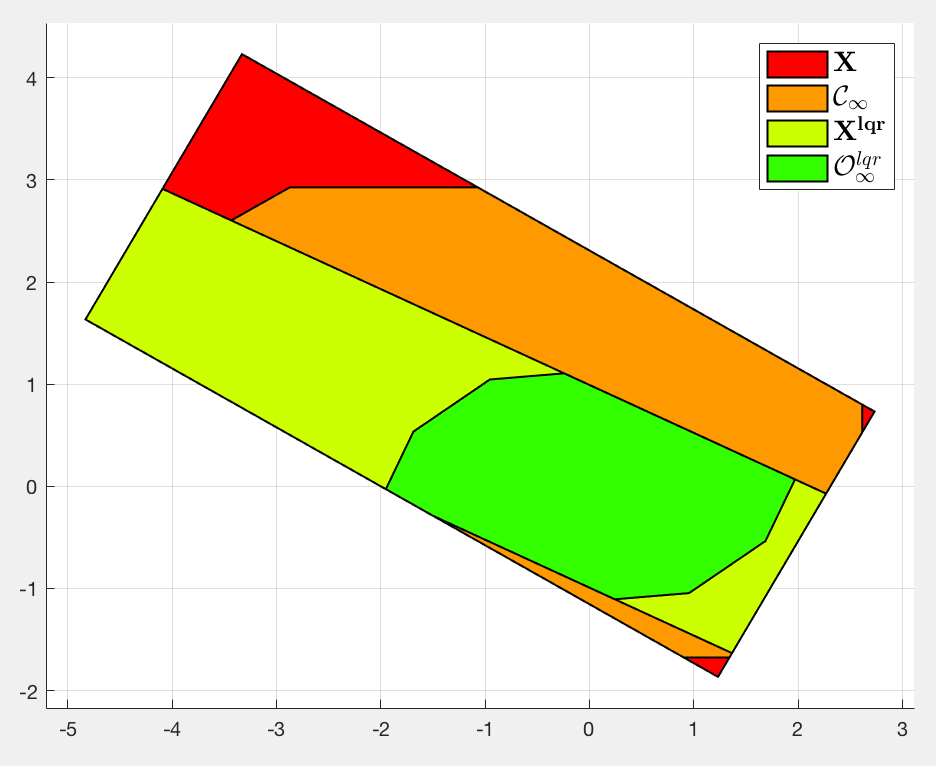
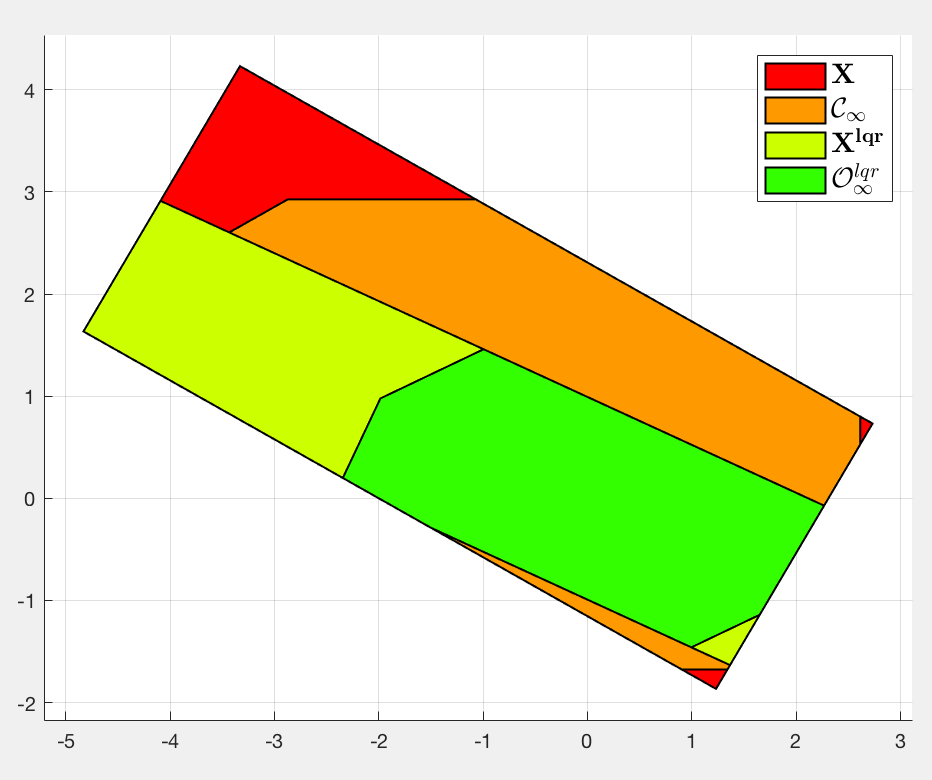
Modifies E3 and adds E4

diff --git a/E4/exo1_script.m b/E4/exo1_script.m
@@ -1,0 +1,102 @@
+%% MPC class
+%% E4 script for exercice 1 
+
+clear all;
+clc;
+close all; 
+
+% defs 
+A = [0.9752 1.4544; -0.0327 0.9315];
+B = [0.0248; 0.0327]; 
+Hx = [1 0; -1 0; 0 1; 0 -1];
+hx = [5; 5; 0.2; 0.2];
+Hu = [1;-1] ; 
+hu = 1.75*[1;1];
+Q = 10*eye(2);
+R = 1;
+N = 10;
+X = Polyhedron(Hx,hx);
+
+%% Algo - question 1
+% LQR feedback law
+[Klqr,P,~] = dlqr(A,B,Q,R); % [optimal LQR gain, DARE solution]
+Vf = @(x) x'*P*x;           % terminal cost 
+
+ % Defines new constraint set 
+ convergence = false;                       % convergence flag
+ O_lqr = Polyhedron([Hx;-Hu*Klqr],[hx;hu]); % current estimate for O_infinity
+
+ %! ------------------------------------------------------ !%
+ %      computing largest invariant set for lqr             %
+ %! ------------------------------------------------------ !%
+ while (~convergence)
+     Op = Polyhedron(O_lqr.A*(A-B*Klqr),O_lqr.b);           % current Omega pre-set
+     On = Polyhedron( [Op.A;O_lqr.A] , [Op.b;O_lqr.b] );    % update rule
+     convergence = (O_lqr == On);                           % convergence check
+     O_lqr = On;                                            % update 
+ end
+  %! ------------------------------------------------------ !%
+  
+%  % Results 
+%  algo_res.weight = P;
+%  algo_res.set = O_lqr;
+%  algo_res.controller = -Klqr;
+%  
+%  % Verifies result with MPT3
+%  sys = LTISystem('A',A,'B',B);
+%  sys.x.max = [5; 0.2]; sys.x.min = [-5; -0.2];
+%  sys.u.max = 1.75; sys.u.min = -1.75;
+%  sys.x.penalty = QuadFunction(Q);
+%  sys.u.penalty = QuadFunction(R);
+%  mpt_res.weight = sys.LQRPenalty.weight;
+%  mpt_res.set = sys.LQRSet;
+%  mpt_res.controller = sys.LQRGain;
+%  
+%  % display 
+%  disp('Boolean value for equality between sets :')
+%  disp(mpt_res.set==algo_res.set);
+%  disp('MPT terminal state :');
+%  disp(mpt_res.weight); 
+%  disp('Our terminal state :');
+%  disp(algo_res.weight);
+%  disp('MPT terminal gain :');
+%  disp(mpt_res.controller); 
+%  disp('Our terminal gain :');
+%  disp(algo_res.controller);
+     
+ 
+ %% Question 2
+ % cost function = 0.5*z'Hz + hz with z = (x11,x12, .., x1N, x2N, u0, .., u_(N_1)
+ % with constraint (Tz=t) and (Gz<=g)
+ x = [3;0];
+ max_iter = 30;
+ traj = zeros(max_iter,2);
+ control = zeros(max_iter,1);
+ for i=1:20
+     traj(i,:) = x;
+    [H,h,G,g,T,t] = mpc_precompute(N,A,B,Q,P,R,x,Hx,hx,Hu,hu,O_lqr);      % precomputes matrix for quadprog minimization
+    [zopt, fval, flag] = quadprog(2*H, h, G, g, T, t);                     % 2*H to comply with model : 0.5*z'Hz + ..
+    if (flag==0)
+        error('Unfeasible program');
+    end
+    x = A*x+B*zopt(2*N+1,1);
+    control(i) = zopt(2*N+1,1);
+ end
+ 
+ % plots
+ plot([X,O_lqr]);hold on;
+ plot(traj(:,1),traj(:,2),'-sk','LineWidth',2,'MarkerSize',6,'MarkerFaceColor',[0.2,0.5,1]);
+ l = legend('Feasible set','Terminal feasible set','Trajectory','Location','southwest');
+ set(l,'FontSize',12);
+ xlabel('$x_1$','interpreter','latex');
+ ylabel('$x_2$','interpreter','latex');
+ 
+ figure;
+ stairs(control,'LineWidth',2,'Color',[0.9,0.2,0.3]);
+ xlabel('Iteration');
+ ylabel('Control');
+ grid minor;
+ legend('MPC Control law');
+ 
+  
+    

diff --git a/E4/mpc_precompute.m b/E4/mpc_precompute.m
@@ -1,0 +1,29 @@
+function [H,h,G,g,T,t] = mpc_precompute(N,A,B,Q,P,R,x0,Hx,hx,Hu,hu,Xf)
+%! computes the different matrix needed for solving the MPC quadratic program !%
+
+% global cost matrix H
+ H = zeros(3*N,3*N);
+ h = zeros(3*N,1);
+ H(1:2*(N-1),1:2*(N-1)) = kron(eye(N-1),Q);
+ H(2*N-1:2*N,2*N-1:2*N) = P;
+ H(2*N+1:3*N,2*N+1:3*N) = kron(eye(N),R);
+ 
+ % global dynamic matrix
+ t = zeros(2*N,1);
+ t(1:2,1) = -A*x0;
+ T = zeros(2*N,3*N);
+ T(1:2*N,1:2*N) = -kron(eye(N),eye(2));
+ T(1:2*N,1:2*N) = T(1:2*N,1:2*N) + kron(diag(-ones(N-1,1),-1),A);
+ T(1:2*N,2*N+1:3*N) = kron(eye(N),B);
+ 
+ % global contraint matrix 
+ G = zeros(6*N-4+size(Xf.A,1),3*N);
+ g = zeros(6*N-4+size(Xf.A,1),1);
+ G(1:4*(N-1),1:2*(N-1)) = kron(eye(N-1),Hx);
+ g(1:4*(N-1)) = repmat(hx,N-1,1);
+ G(4*N-3:4*N-3+size(Xf.A,1)-1,2*N-1:2*N) = Xf.A;
+ g(4*N-3:4*N-3+size(Xf.A,1)-1) = Xf.b;
+ G(4*N-3+size(Xf.A,1):6*N-4+size(Xf.A,1),2*N+1:3*N) =  kron(eye(N),Hu);
+ g(4*N-3+size(Xf.A,1):6*N-4+size(Xf.A,1)) = repmat(hu,N,1);
+ 
+end

diff --git a/E3/exo2.m b/E3/exo2.m
@@ -60,7 +60,7 @@
  %      computing largest invariant set for lqr             %
  %! ------------------------------------------------------ !%
  while (~convergence)
-     Op = Polyhedron(O_lqr.A*A,O_lqr.b);                    % current Omega pre-set
+     Op = Polyhedron(O_lqr.A*(A+B*K),O_lqr.b);                    % current Omega pre-set
      On = Polyhedron( [Op.A;O_lqr.A] , [Op.b;O_lqr.b] );    % update rule
      convergence = (O_lqr == On);                           % convergence check
      O_lqr = On;                                            % update 
